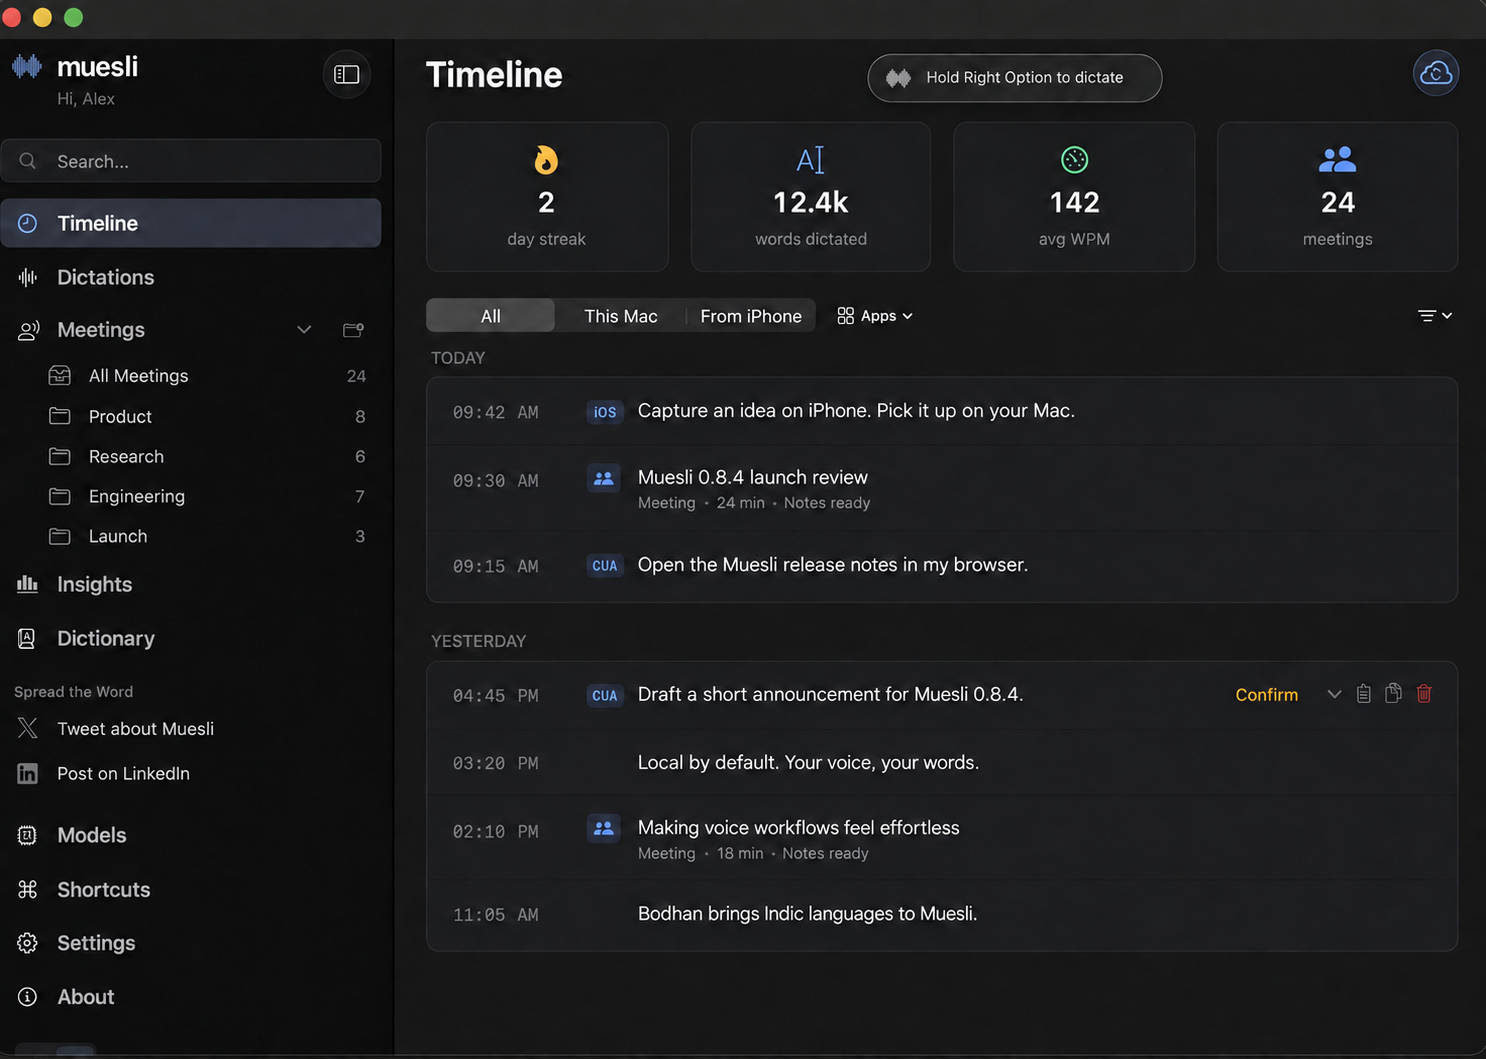
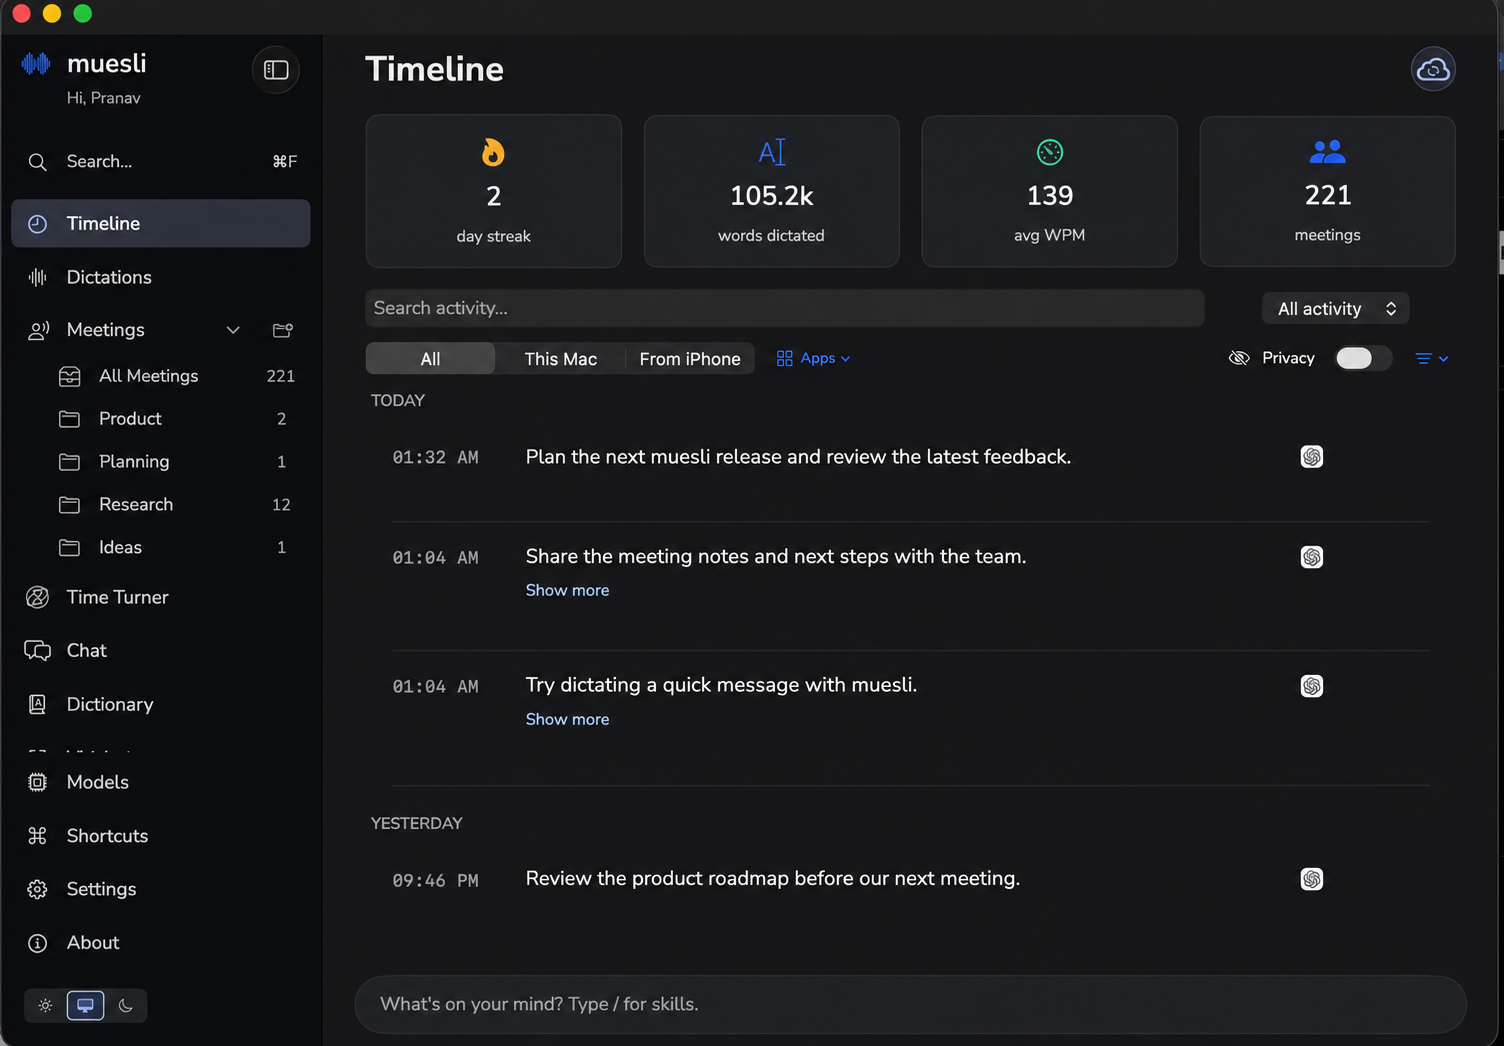
Refresh README screenshot and design reference

diff --git a/design-system/muesli-design-system.html b/design-system/muesli-design-system.html
@@ -306,11 +306,16 @@
     border: 1px solid var(--border);
   }
   .icon-item .symbol {
-    font-size: 16px;
     width: 24px;
-    text-align: center;
+    height: 24px;
+    flex: none;
+    background: var(--text-secondary);
+    mask: var(--icon) center / contain no-repeat;
+    -webkit-mask: var(--icon) center / contain no-repeat;
   }
   .icon-item .icon-label {
+    min-width: 0;
+    overflow-wrap: anywhere;
     font-size: 11px;
     color: var(--text-secondary);
   }
@@ -627,21 +632,24 @@
 <!-- 4. ICONOGRAPHY -->
 <section class="page-break">
   <h2><span class="num">04</span> Iconography</h2>
-  <p class="section-desc">SF Symbols for UI chrome, animated waveform bars for the floating indicator, official assets for branding. Symbol names below are authoritative; browser emoji are illustrative placeholders, not SF Symbol renderings.</p>
+  <p class="section-desc">SF Symbols for UI chrome, animated waveform bars for the floating indicator, official assets for branding. Generate the local SF Symbol previews with <code>swift design-system/scripts/render-sidebar-symbols.swift</code> from the repository root. Symbol names remain visible without them. Time Turner and Vidshots use bundled custom icon specimens.</p>
 
   <h3>Sidebar Navigation</h3>
   <div class="icon-grid">
-    <div class="icon-item"><span class="symbol" style="font-family:-apple-system">&#x1F552;</span><div class="icon-label">clock<br>Timeline</div></div>
-    <div class="icon-item"><span class="symbol" style="font-family:-apple-system">&#x301C;</span><div class="icon-label">waveform<br>Dictations</div></div>
-    <div class="icon-item"><span class="symbol" style="font-family:-apple-system">&#x1F465;</span><div class="icon-label">person.wave.2 / person.2<br>Meetings (expanded / collapsed)</div></div>
-    <div class="icon-item"><span class="symbol" aria-hidden="true">&#x1F4AC;</span><div class="icon-label">bubble.left.and.bubble.right<br>Chat</div></div>
-    <div class="icon-item"><span class="symbol" style="font-family:-apple-system">&#x1F4D6;</span><div class="icon-label">character.book.closed<br>Dictionary</div></div>
-    <div class="icon-item"><span class="symbol" style="font-family:-apple-system">&#x1F4BB;</span><div class="icon-label">cpu<br>Models</div></div>
-    <div class="icon-item"><span class="symbol" style="font-family:-apple-system">&#x2318;</span><div class="icon-label">command<br>Shortcuts</div></div>
-    <div class="icon-item"><span class="symbol" style="font-family:-apple-system">&#x2699;</span><div class="icon-label">gearshape<br>Settings</div></div>
-    <div class="icon-item"><span class="symbol" style="font-family:-apple-system">&#x2139;</span><div class="icon-label">info.circle<br>About</div></div>
+    <div class="icon-item"><span class="symbol" aria-hidden="true" style="--icon:url(assets/icons/clock.png)"></span><div class="icon-label">clock<br>Timeline</div></div>
+    <div class="icon-item"><span class="symbol" aria-hidden="true" style="--icon:url(assets/icons/time-turner.svg)"></span><div class="icon-label">TimeTurnerIcon<br>Time Turner</div></div>
+    <div class="icon-item"><span class="symbol" aria-hidden="true" style="--icon:url(assets/icons/waveform.png)"></span><div class="icon-label">waveform<br>Dictations</div></div>
+    <div class="icon-item"><span class="symbol" aria-hidden="true" style="--icon:url(assets/icons/vidshots.svg)"></span><div class="icon-label">VidshotIcon<br>Vidshots</div></div>
+    <div class="icon-item"><span class="symbol" aria-hidden="true" style="--icon:url(assets/icons/person.wave.2.png)"></span><div class="icon-label">person.wave.2<br>Meetings (expanded)</div></div>
+    <div class="icon-item"><span class="symbol" aria-hidden="true" style="--icon:url(assets/icons/person.2.png)"></span><div class="icon-label">person.2<br>Meetings (collapsed)</div></div>
+    <div class="icon-item"><span class="symbol" aria-hidden="true" style="--icon:url(assets/icons/bubble.left.and.bubble.right.png)"></span><div class="icon-label">bubble.left.and.bubble.right<br>Chat</div></div>
+    <div class="icon-item"><span class="symbol" aria-hidden="true" style="--icon:url(assets/icons/character.book.closed.png)"></span><div class="icon-label">character.book.closed<br>Dictionary</div></div>
+    <div class="icon-item"><span class="symbol" aria-hidden="true" style="--icon:url(assets/icons/cpu.png)"></span><div class="icon-label">cpu<br>Models</div></div>
+    <div class="icon-item"><span class="symbol" aria-hidden="true" style="--icon:url(assets/icons/command.png)"></span><div class="icon-label">command<br>Shortcuts</div></div>
+    <div class="icon-item"><span class="symbol" aria-hidden="true" style="--icon:url(assets/icons/gearshape.png)"></span><div class="icon-label">gearshape<br>Settings</div></div>
+    <div class="icon-item"><span class="symbol" aria-hidden="true" style="--icon:url(assets/icons/info.circle.png)"></span><div class="icon-label">info.circle<br>About</div></div>
   </div>
-  <p style="color:var(--text-secondary);font-size:13px;margin:8px 0">Timeline (clock) leads: one chronological feed combining dictations and meetings. The Meetings row expands to reveal meeting folders, with children indented as a group (position carries nesting, not icon size). Chat follows Meetings. Open Insights through the statistics tiles on Timeline or Dictations; it has no sidebar entry. Timeline’s activity filter shows only its selected value, with its label retained for accessibility. Models, Shortcuts, Settings, and About stay fixed in the bottom section. Only the top six destinations can be reordered. Drag toward a row’s upper or lower half: an accent insertion line marks the exact boundary before or after that row. Meetings moves with its folder tree. Right-click Move up / Move down and VoiceOver actions offer alternatives; Reset sidebar order restores defaults. The local order persists across launches without changing the selected page. The rail is fixed at 240pt expanded and collapses to a 68pt icon strip via the header toggle. Navigation labels are 14pt, medium normally and semibold when selected. Milestone-gated sharing links live in About.</p>
+  <p style="color:var(--text-secondary);font-size:13px;margin:8px 0">Timeline (clock) leads: one chronological feed combining dictations and meetings. The default order is Timeline, Time Turner, Dictations, Vidshots, Meetings, Chat and Dictionary. The Meetings row expands to reveal meeting folders, with children indented as a group (position carries nesting, not icon size). Open Insights through the statistics tiles on Timeline or Dictations; it has no sidebar entry. Timeline’s activity filter shows only its selected value, with its label retained for accessibility. Models, Shortcuts, Settings, and About stay fixed in the bottom section. These seven destinations can be reordered. Drag toward a row’s upper or lower half: an accent insertion line marks the exact boundary before or after that row. Meetings moves with its folder tree. Right-click Move up / Move down and VoiceOver actions offer alternatives; Reset sidebar order restores defaults. The local order persists across launches without changing the selected page. The rail is fixed at 240pt expanded and collapses to a 68pt icon strip via the header toggle. Navigation labels are 14pt, medium normally and semibold when selected. Milestone-gated sharing links live in About.</p>
   <p style="color:var(--text-secondary);font-size:13px;margin:8px 0">Expanded row icons use 14pt medium; collapsed rail icons use 16pt medium. Meetings uses person.wave.2 expanded and person.2 collapsed. Icons are outline-only; <code>.fill</code> is reserved for selection state, keeping ink weight even across the column. The icon column is center-aligned and starts at the search field's inner padding, so row glyphs sit directly under the magnifier.</p>
 
   <h3>Permission recovery</h3>
@@ -1032,7 +1040,7 @@
   <table>
     <tr><th>Property</th><th>Value</th></tr>
     <tr><td>Container</td><td><code>backgroundRaised</code>, 12pt radius, 1pt <code>surfaceBorder</code>, 20pt padding</td></tr>
-    <tr><td>Header</td><td>"Coming Up" &mdash; Cormorant Garamond 22pt medium</td></tr>
+    <tr><td>Header</td><td>"Coming Up" &mdash; Nunito Sans 20pt semibold (title2)</td></tr>
     <tr><td>Date column</td><td>60pt wide &mdash; day number (24pt light), label (11pt medium), weekday (10pt)</td></tr>
     <tr><td>Event row</td><td>3pt accent bar (today) or 40% secondary bar &middot; title 13pt medium &middot; time 11pt secondary</td></tr>
     <tr><td>Join &amp; Record</td><td>Green button, shown when <code>meetingURL</code> present and not recording</td></tr>

diff --git a/design-system/scripts/render-sidebar-symbols.swift b/design-system/scripts/render-sidebar-symbols.swift
@@ -1,0 +1,18 @@
+import AppKit
+import Foundation
+// Run from the repository root on macOS to populate locally ignored icon previews.
+let names = ["clock", "waveform", "person.wave.2", "person.2", "bubble.left.and.bubble.right", "character.book.closed", "cpu", "command", "gearshape", "info.circle"]
+for name in names {
+    guard let symbol = NSImage(systemSymbolName: name, accessibilityDescription: nil) else { fatalError("Missing symbol: \(name)") }
+    let config = NSImage.SymbolConfiguration(pointSize: 32, weight: .medium)
+    guard let configured = symbol.withSymbolConfiguration(config) else { fatalError(name) }
+    let size = NSSize(width: 48, height: 48)
+    let img = NSImage(size: size)
+    img.lockFocus()
+    NSColor.black.set()
+    let rect = NSRect(x: 0, y: 0, width: 48, height: 48)
+    configured.draw(in: rect, from: .zero, operation: .sourceOver, fraction: 1)
+    img.unlockFocus()
+    guard let tiff = img.tiffRepresentation, let bitmap = NSBitmapImageRep(data: tiff), let data = bitmap.representation(using: .png, properties: [:]) else { fatalError(name) }
+    try data.write(to: URL(fileURLWithPath: "design-system/assets/icons/\(name).png"))
+}

diff --git a/design-system/README.md b/design-system/README.md
@@ -343,12 +343,11 @@ The light-blue-on-site-ink lockup uses `#6AA0F4` over `#080E16`. The primary tra
 
 Audited against `origin/main` at `e1b52117ffb1ab6980f7266b72d9cb9e706a5afb`. Sources: `SidebarView.swift`, `MWaveformIcon.swift`, `FloatingIndicatorController.swift`, `IndicatorWaveformDynamics.swift`, `NotchIndicatorController.swift`, and `RecordingIndicatorStylePicker.swift` under `native/MuesliNative/Sources/MuesliNativeApp/`.
 
-Corrected the missing Chat destination, Meetings symbols (`person.wave.2` expanded, `person.2` collapsed), preparing size/timing, waveform count/geometry/smoothing, waiting animation, and explicit meeting controls. Section 05 now distinguishes Classic, Minimal and Notch behavior. Browser emoji remain illustrative placeholders, not actual SF Symbols. This source audit does not certify pixel fidelity or all other component specifications; native visual and interaction checks still apply.
+Corrected the missing Chat destination, Meetings symbols (`person.wave.2` expanded, `person.2` collapsed), preparing size/timing, waveform count/geometry/smoothing, waiting animation, and explicit meeting controls. Section 05 now distinguishes Classic, Minimal and Notch behavior. The sidebar icon grid uses locally generated SF Symbols and custom icons based on `TimeTurnerIcon.swift` and `VidshotIcon.swift`. Run `swift design-system/scripts/render-sidebar-symbols.swift` from the repository root to render the locally ignored SF Symbol previews; symbol names remain visible without them. Other browser specimens remain illustrative. This source audit does not certify pixel fidelity or all other component specifications; native visual and interaction checks still apply.
 
 ### Reorderable sidebar
 
-Only the top six navigation destinations can be reordered in expanded and icon-only
-layouts. Models, Shortcuts, Settings and About stay fixed at the bottom. Drag a row
+The seven navigation destinations (Timeline, Time Turner, Dictations, Vidshots, Meetings, Chat and Dictionary) can be reordered in expanded and icon-only layouts. Models, Shortcuts, Settings and About stay fixed at the bottom. Drag a row
 to the upper or lower half of another row; an accent-colored insertion line marks
 the exact boundary before or after it. Meetings moves with its entire folder tree,
 and the line stays outside that group. Folder drags remain a separate interaction.

diff --git a/README.md b/README.md
@@ -33,10 +33,10 @@ Muesli is a **native macOS app for dictation and meeting transcription**, built 
 Speech recognition runs on your Mac by default. Hosted transcription and AI features are optional and send the content needed for the selected task to your provider. iCloud sync transfers text and sync metadata, never audio. See [Muesli's privacy policy](https://muesli.works/privacy).
 
 <p align="center">
-  <img src="assets/muesli-github-ss.png" alt="Muesli 0.8.4 Timeline with illustrative dictation, meeting, iPhone, and Computer Use entries" width="900" />
+  <img src="assets/muesli-github-ss.png" alt="muesli Timeline with illustrative activity, meeting folders, and feature navigation" width="900" />
 </p>
 
-<p align="center"><sub>Illustrative entries and usage statistics. Personal content has been replaced.</sub></p>
+<p align="center"><sub>Illustrative image based on the muesliDev interface; meeting folder names and activity entries are fictional.</sub></p>
 
 ## Features
 

diff --git a/design-system/assets/icons/README.md b/design-system/assets/icons/README.md
@@ -1,0 +1,17 @@
+# Sidebar icon specimens
+
+The PNG previews are generated locally on macOS from SF Symbols using the medium
+weight system configuration. From the repository root, run:
+
+```sh
+swift design-system/scripts/render-sidebar-symbols.swift
+```
+
+The generated PNGs are ignored by Git. They depict the symbols named in
+`SidebarOrder.swift` and `SidebarView.swift`, including both Meetings states.
+The application uses native SF Symbols, not these preview images. Without the
+local PNGs, the symbol names remain visible in the reference.
+
+`time-turner.svg` follows `TimeTurnerIcon.swift`, and `vidshots.svg` follows
+`VidshotIcon.swift`. Their CSS masks adopt the selected preview theme. Update
+these specimens when the corresponding native icons change.
